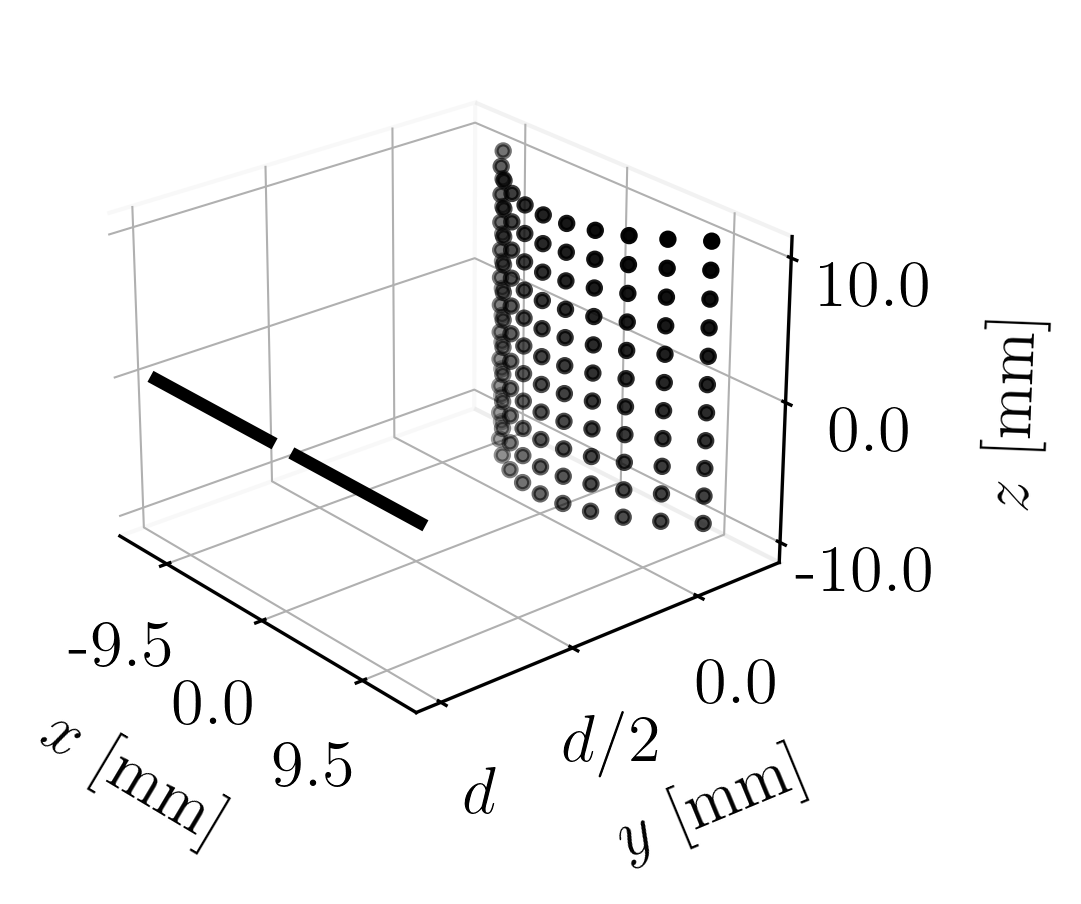
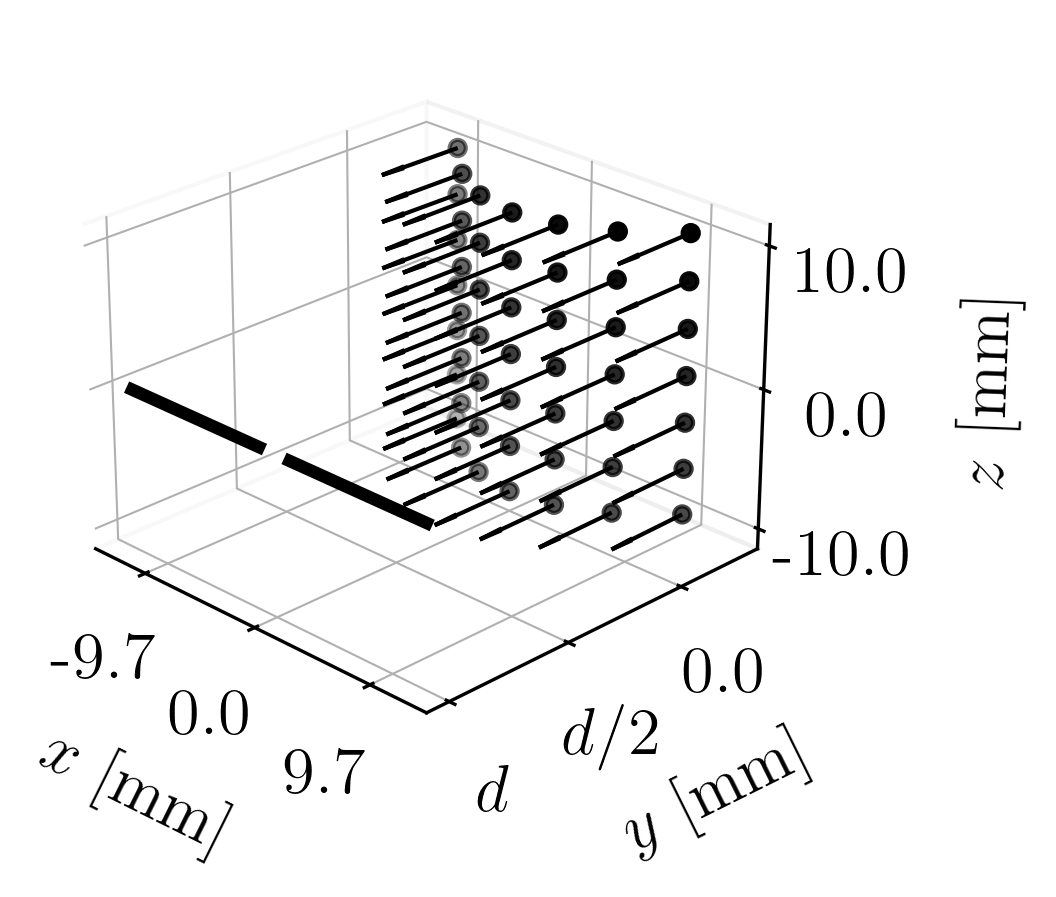
add normals to averaging surface figures

diff --git a/playground/IRPA2022_paper/utils.py b/playground/IRPA2022_paper/utils.py
@@ -53,3 +53,21 @@ def cyl2cart(r, theta, z):
     x = r * jnp.cos(theta)
     y = r * jnp.sin(theta)
     return x, y, z
+
+
+def sph_normals(r, theta, phi):
+    """Return unit vector field components normal to spherical
+    surface."""
+    nx = r ** 2 * jnp.cos(phi) * jnp.sin(theta) ** 2 
+    ny = r ** 2 * jnp.sin(phi) * jnp.sin(theta) ** 2
+    nz = r ** 2 * jnp.cos(theta) * jnp.sin(theta)
+    return nx, ny, nz
+
+
+def cyl_normals(r, theta, z):
+    """Return unit vector field components normal to cylndrical
+    surface."""
+    nx = jnp.cos(theta)
+    ny = jnp.sin(theta)
+    nz = 0
+    return nx, ny, nz
